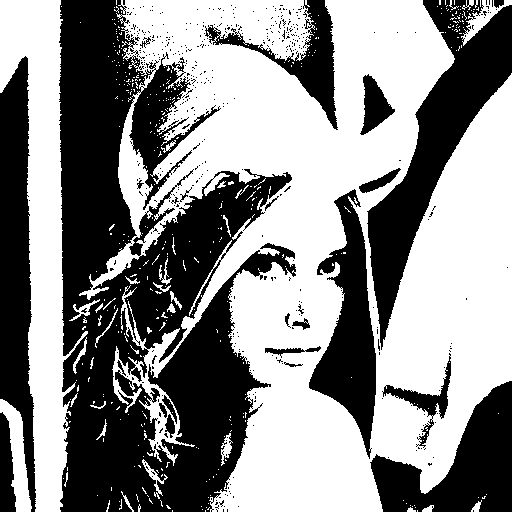
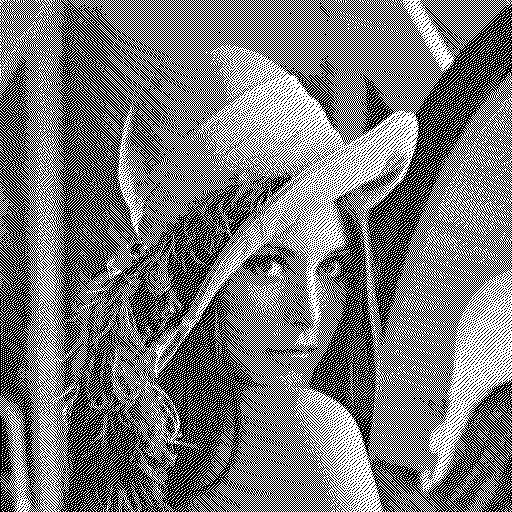
fixed

diff --git a/emt_ws13_blatt04_ueb1/src/main/Dithering.java b/emt_ws13_blatt04_ueb1/src/main/Dithering.java
@@ -80,28 +80,29 @@ class Dithering
 	 */
 	public static BufferedImage bw_dither(BufferedImage image)
 	{
+		BufferedImage newImage = deepCopy(image);
 		for (int x = 0; x < image.getWidth(); x++)
 			for (int y = 0; y < image.getHeight(); y++)
 			{
 				C3 oldpixel = new C3(image.getRGB(x, y));
 				C3 newpixel = closestColorBW(oldpixel);
-				image.setRGB(x, y, newpixel.toRGB());
-				int quanterror = oldpixel.toRGB() - newpixel.toRGB();
+				newImage.setRGB(x, y, newpixel.toRGB());
+				C3 err = oldpixel.sub(newpixel);
 				
 				if (x != (image.getWidth() - 1) && (y != (image.getHeight() - 1)))
-					image.setRGB(x + 1, y + 1, image.getRGB(x + 1, y + 1) + quanterror *  (1/16));
+					image.setRGB(x + 1, y + 1, new C3(image.getRGB(x + 1, y + 1)).add(err.mul(1./16)).toRGB());
 				
 				if (x != (image.getWidth() - 1))
-					image.setRGB(x + 1, y + 0, image.getRGB(x + 1, y + 0) + quanterror *  (7/16));
+					image.setRGB(x + 1, y + 0, new C3(image.getRGB(x + 1, y + 0)).add(err.mul(7./16)).toRGB());
 				
 				if (x != 0 && (y != (image.getHeight() - 1)))
-					image.setRGB(x - 1, y + 1, image.getRGB(x - 1, y + 1) + quanterror *  (3/16));
+					image.setRGB(x - 1, y + 1, new C3(image.getRGB(x - 1, y + 1)).add(err.mul(3./16)).toRGB());
 				
 				if (y != (image.getHeight() - 1))
-					image.setRGB(x + 0, y + 1, image.getRGB(x + 0, y + 1) + quanterror *  (5/16));
+					image.setRGB(x + 0, y + 1, new C3(image.getRGB(x + 0, y + 1)).add(err.mul(5./16)).toRGB());
 
 			}
-		return image;
+		return newImage;
 	}
 	
 	/**
@@ -110,28 +111,30 @@ class Dithering
 	 */
 	public static BufferedImage color_dither(BufferedImage image)
 	{
+		BufferedImage newImage = deepCopy(image);
 		for (int x = 0; x < image.getWidth(); x++)
 			for (int y = 0; y < image.getHeight(); y++)
 			{
 				C3 oldpixel = new C3(image.getRGB(x, y));
 				C3 newpixel = closestColor(oldpixel, palette);
 				image.setRGB(x, y, newpixel.toRGB());
-				int quanterror = oldpixel.toRGB() - newpixel.toRGB();
+				newImage.setRGB(x, y, newpixel.toRGB());
+				C3 err = oldpixel.sub(newpixel);
 				
 				if (x != (image.getWidth() - 1) && (y != (image.getHeight() - 1)))
-					image.setRGB(x + 1, y + 1, image.getRGB(x + 1, y + 1) + quanterror *  (1/16));
+					image.setRGB(x + 1, y + 1, new C3(image.getRGB(x + 1, y + 1)).add(err.mul(1./16)).toRGB());
 				
 				if (x != (image.getWidth() - 1))
-					image.setRGB(x + 1, y + 0, image.getRGB(x + 1, y + 0) + quanterror *  (7/16));
+					image.setRGB(x + 1, y + 0, new C3(image.getRGB(x + 1, y + 0)).add(err.mul(7./16)).toRGB());
 				
 				if (x != 0 && (y != (image.getHeight() - 1)))
-					image.setRGB(x - 1, y + 1, image.getRGB(x - 1, y + 1) + quanterror *  (3/16));
+					image.setRGB(x - 1, y + 1, new C3(image.getRGB(x - 1, y + 1)).add(err.mul(3./16)).toRGB());
 				
 				if (y != (image.getHeight() - 1))
-					image.setRGB(x + 0, y + 1, image.getRGB(x + 0, y + 1) + quanterror *  (5/16));
+					image.setRGB(x + 0, y + 1, new C3(image.getRGB(x + 0, y + 1)).add(err.mul(5./16)).toRGB());
 
 			}
-		return image;
+		return newImage;
 	}
 	
 	/**
